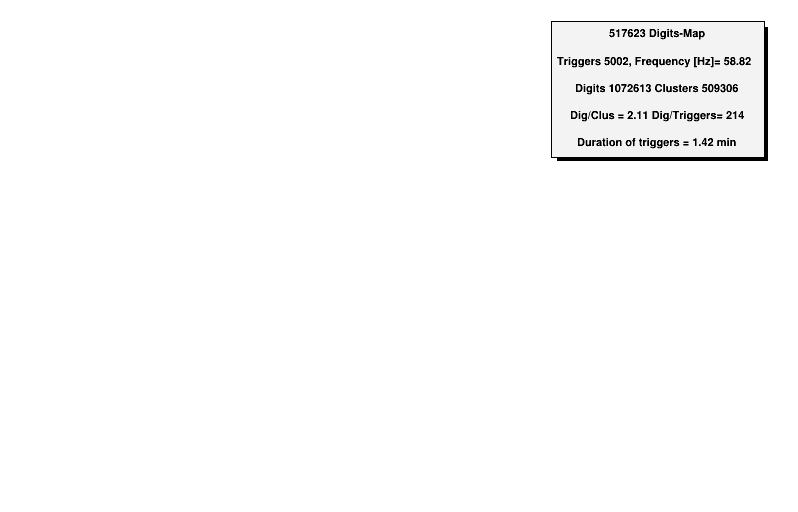
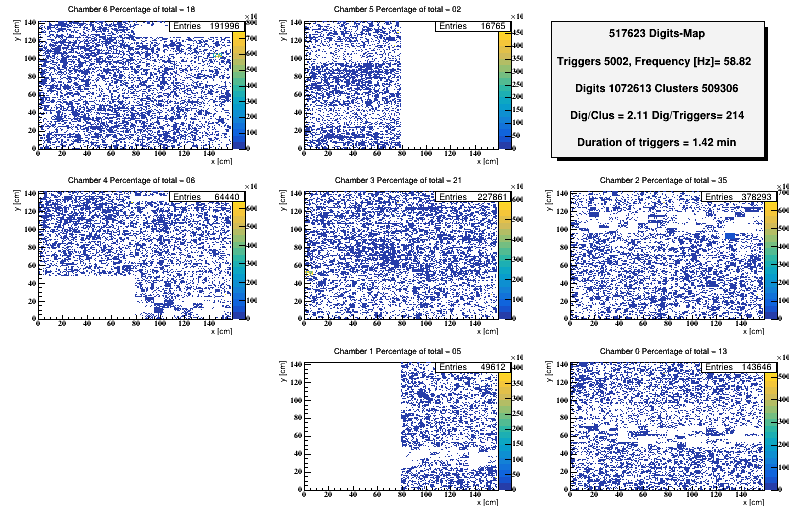
evry pritns correct, but add map of selected pads?

Changed region(s): [[0.0, 0.3438, 0.9925, 1.0], [0.0301, 0.0, 0.3308, 0.3438], [0.3609, 0.0, 0.6617, 0.3438]]

diff --git a/517623/readClusters.C b/517623/readClusters.C
@@ -112,7 +112,7 @@ void readClusters(int nEvents)
   std::array<std::unique_ptr<TGraph>, 7> trigGraph;
   
   std::array<std::unique_ptr<TH1F>, 7> digCharge, hMipCharge, digPerEvent;
-  std::array<std::unique_ptr<TH2F>, 7> digMap, digMapAvg, digMapCount;
+  std::array<std::unique_ptr<TH2F>, 7> digMap, digMapAvg, digMapSel;
 
 
 
@@ -137,14 +137,6 @@ void readClusters(int nEvents)
 
   setPadChannel(padDigOff, 6, 141, 150, 105, 110); // chamber, xLow, xHigh, yLow,  yHigh
   
-  for(int chamber = 0; chamber < 7; chamber++){
-  for(int x = 0; x < 160; x++){
-    for(int y = 0; y < 144; y++){
-      if(!padDig[chamber][x][y])
-      {cout << "False padDigOff " << chamber << " x " << x << " y " << y << endl;}
-    }
-  }}
-
   vector<Cluster> clusters; vector<Trigger> clusterTriggers;
   vector<Digit> digits;
   int fname = 000000;
@@ -207,6 +199,15 @@ void readClusters(int nEvents)
     digMap[i]->SetXTitle("x [cm]");
     digMap[i]->SetYTitle("y [cm]");
 
+
+
+    const char* canDigSel = Form("Selected Pads %i", i);
+    digMapSel[i].reset(new TH2F(canDigSel, canDigSel, 160, 0, 159, 144, 0, 143));
+    //digMap[i].reset(new TH2F(canDigMap, canDigMap, 160*0.8, 0, 159*0.8, 144*0.8, 0, 160*0.8));
+    digMapSel[i]->SetXTitle("x [cm]");
+    digMapSel[i]->SetYTitle("y [cm]");
+    
+
     const char* canDigAvg = Form("Avg Charge Per Pad %i", i);
     digMapAvg[i].reset(new TH2F(canDigAvg, canDigAvg, 160, 0, 159, 144, 0, 143));
     //digMap[i].reset(new TH2F(canDigMap, canDigMap, 160*0.8, 0, 159*0.8, 144*0.8, 0, 160*0.8));
@@ -224,7 +225,18 @@ void readClusters(int nEvents)
     digPerEvent[i]->SetYTitle("Frequencies");
    
   }
-  
+
+
+  for(int chamber = 0; chamber < 7; chamber++){
+    for(int x = 0; x < 160; x++){
+      for(int y = 0; y < 144; y++){
+        if(!padDig[chamber][x][y]){
+          digMapSel[chamber]->Fill(x,y,1.);
+          cout << "False padDigOff " << chamber << " x " << x << " y " << y << endl;
+        }
+      }
+    }
+  }
 
   const char* trigTimeStr = Form("Trigger Time Freq");
   triggerTimeFreqHist.reset(new TH1F(trigTimeStr, trigTimeStr, numTriggers/10, 0., 2000000.));
@@ -249,7 +261,7 @@ void readClusters(int nEvents)
   
 
 
-  (canvas[5]).reset(new TCanvas(Form("Trigger Time %i",fname), Form("Trigger Time %i",fname), 1200, 1200));
+  (canvas[5]).reset(new TCanvas(Form("Map of sel %i",fname), Form("Map of sel%i",fname), 1200, 1200));
 
   (canvas[6]).reset(new TCanvas(Form("Digits Freq %i",fname), Form("Digits Freq  %i",fname), 1200, 1200));
 
@@ -396,7 +408,7 @@ void readClusters(int nEvents)
   const char* runLabel = Form("%i", fname);
 
 
-  vector<const char*> tpvTexts{"MIP Clusters Charge", "Digits-Charge", "Digits-Map", "Digits-Map Avg", "Digits Per Event", "", ""};
+  vector<const char*> tpvTexts{"MIP Clusters Charge", "Digits-Charge", "Digits-Map", "Digits-Map Avg", "Digits Per Event", "Map of Evaluated Areas", ""};
 
   int j = 0;
   for(auto& tpv: tpvs){
@@ -417,16 +429,12 @@ void readClusters(int nEvents)
     tpv->AddText(f4);
   }
 
-
-
   const int tpvSize = static_cast<int>(tpvs.size());
   for(int i = 0; i < tpvSize; i++){
     canvas[i]->Divide(3, 3); 
     canvas[i]->cd(3);
     tpvs[i]->Draw();
   }
-
-
 
   const int posArr[] = {9, 8, 6, 5, 4, 2, 1};
   changeFont();    
@@ -440,17 +448,15 @@ void readClusters(int nEvents)
 
   std::unique_ptr<TCanvas> temp1;
   temp1.reset(new TCanvas(Form("temp1%i",fname), Form("temp1%i",fname),1200, 1200));
-
   temp1->Divide(2,1);
   { 
 
     temp1->cd(2);
-    //tpvs[0]->Draw();
-    digPerEvent[0]->Draw();
-
+    tpvs[0]->Draw();
     auto pad2 = static_cast<TPad*>(temp1->cd(1));
     triggerTimeFreqHist->Draw();
   }
+
   temp1->Show();
   temp1->SaveAs(Form("TriggerFreq_%i_.png",fname));
 
@@ -478,7 +484,11 @@ void readClusters(int nEvents)
     digMap[iCh]->Draw("Colz");
   }
 
-
+    
+  gStyle->SetOptStat("e");
+  gStyle->SetStatW(0.3);
+  gStyle->SetStatH(0.6); 
+    
 
   // avg digits charge
   for (int iCh = 0; iCh < 7; iCh++) {
@@ -538,6 +548,7 @@ void readClusters(int nEvents)
   gStyle->SetStatH(0.6); 
   gStyle->SetOptStat("eimr");
   gStyle->SetLabelOffset(0.00525, "y");
+
 
   for (int iCh = 0; iCh < 7; iCh++) {
     const auto& pos = posArr[iCh];
